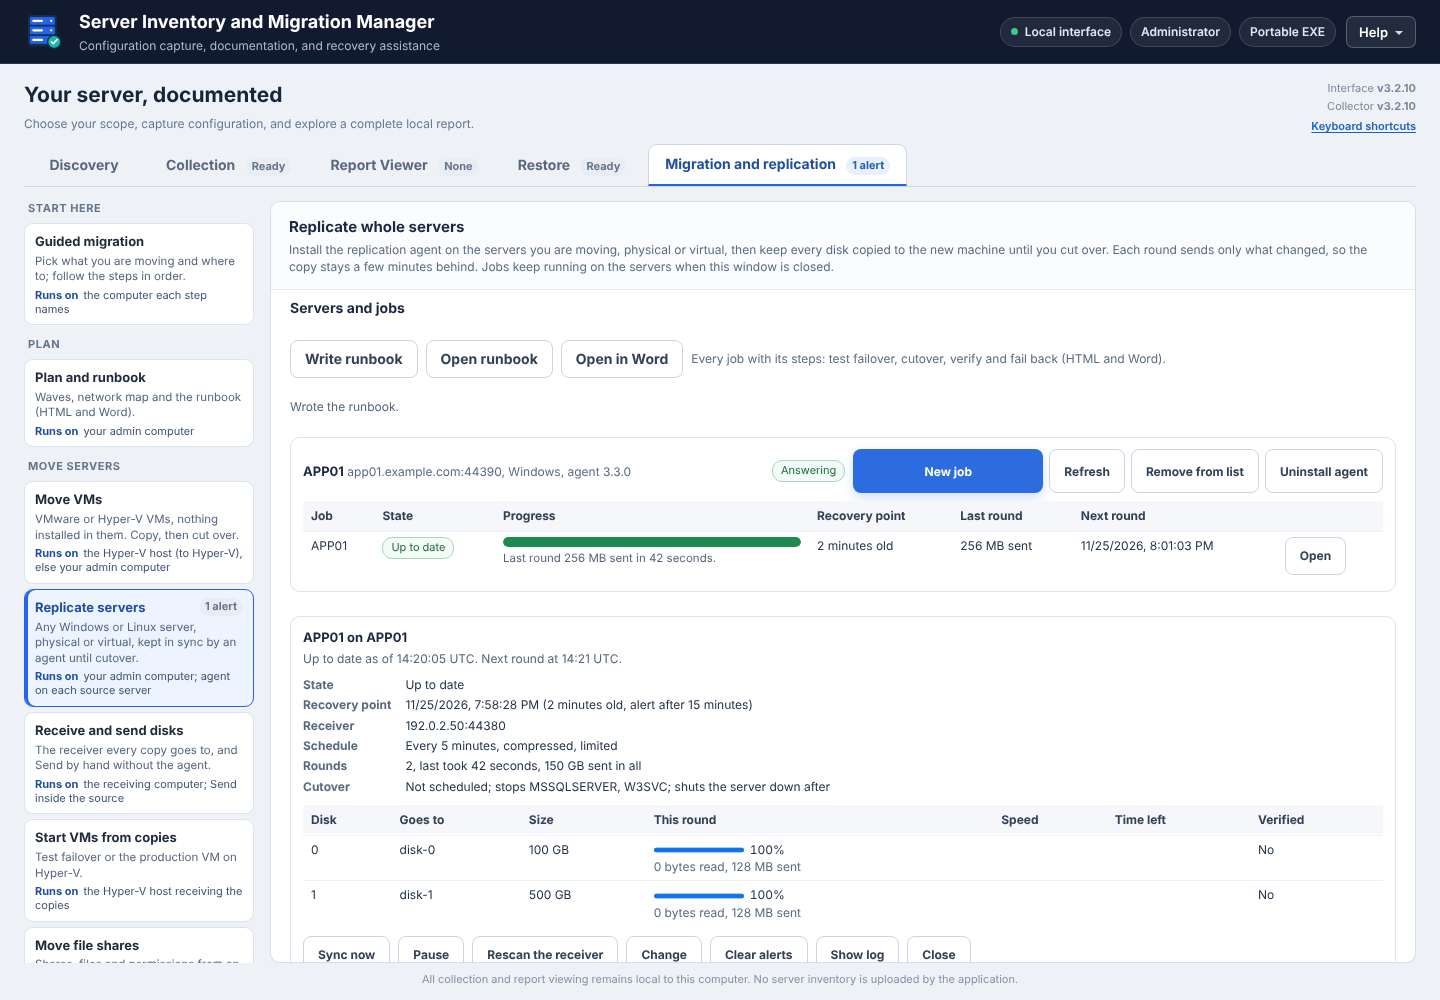
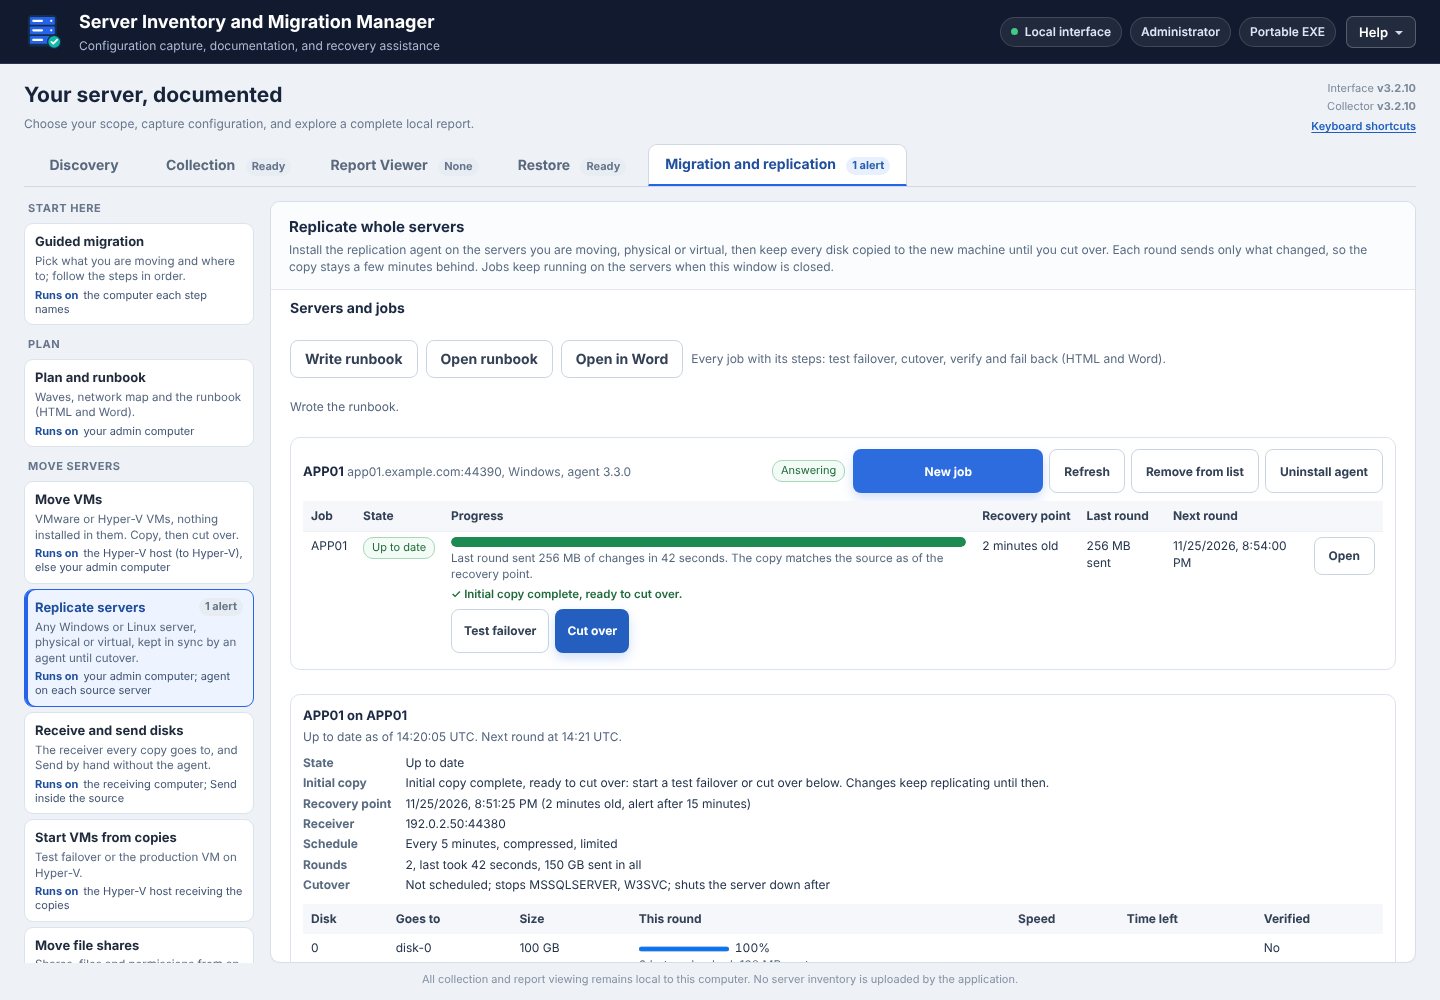
Put Test failover and Cut over under the initial copy line; recapture replication screenshots
Claude-Session: https://claude.ai/code/session_01AkZzWGj2e6f3ND8PTMq4FS

diff --git a/src/app/index.html b/src/app/index.html
@@ -533,7 +533,7 @@ kbd{display:inline-block;min-width:20px;padding:1px 6px;border:1px solid #c9d2df
 .vm-flow{display:flex;flex-wrap:wrap;align-items:center;gap:6px 8px;margin-top:8px;font-size:12px;color:#334156}
 .vm-flow-box{padding:5px 10px;border:1px solid #d6e0ee;border-radius:7px;background:#fff}.vm-flow-box.here{border-color:#2563eb;box-shadow:0 0 0 1px #2563eb}.vm-flow-box b{color:#1b2942}
 .rp-body .vm-field input,.rp-body .vm-field select,.rp-body .vm-field textarea{max-width:520px;box-sizing:border-box;border:1px solid #bcc9d9;border-radius:7px;padding:5px 9px;font:inherit;font-size:13px;min-height:32px;background:#fff;color:#1b2942}.rp-body .vm-field textarea{resize:vertical}
-.rp-body{display:flex;flex-direction:column;gap:12px;overflow-y:auto;overflow-x:hidden;min-height:0;flex:1 1 auto}.rp-summary{display:flex;flex-wrap:wrap;gap:8px}.rp-stat{min-width:86px;padding:7px 10px;border:1px solid #dbe3ed;border-radius:9px;background:#fbfcfe}.rp-stat strong{display:block;font-size:17px;color:#1b2942}.rp-stat span{font-size:11px;color:#52647c}.rp-stat.good{border-color:#a7d8b8;background:#f2fbf5}.rp-stat.warning{border-color:#f0cf8a;background:#fff9ea}.rp-stat.danger{border-color:#f1b3ad;background:#fff4f3}.rp-stat{font:inherit;text-align:left;cursor:pointer;transition:border-color .15s,box-shadow .15s}.rp-stat:hover{border-color:#9db8e6;box-shadow:0 1px 4px rgba(31,95,191,.14)}.rp-stat:focus-visible{outline:2px solid #2d6fd6;outline-offset:2px}.rp-stat[aria-pressed="true"]{border-color:#2563eb;box-shadow:inset 0 0 0 1px #2563eb;background:#f7faff}.rp-filter-bar{display:flex;flex-wrap:wrap;align-items:center;gap:6px 10px;margin:4px 0 8px;padding:6px 10px;border:1px solid #c9d6ea;border-radius:8px;background:#f5f8fd;font-size:12.5px}.rp-progress{min-width:190px}.rp-bar{position:relative;height:10px;border-radius:5px;background:#e6ebf2;overflow:hidden}.rp-bar-fill{display:block;height:100%;border-radius:5px;background:#7b8aa0;transition:width .4s}.rp-bar.active .rp-bar-fill{background:#2563eb}.rp-bar.good .rp-bar-fill{background:#1d8a52}.rp-bar.warning .rp-bar-fill{background:#d08a14}.rp-bar.danger .rp-bar-fill{background:#c2413a}.rp-progress-text{margin-top:3px;font-size:11.5px;color:#52647c}.fv-why{color:#7a5410;margin-top:4px}.vm-act.warning{color:#7a5410}.vm-act.danger{color:#9b2c22;font-weight:600}.vm-act.good{color:#1f6a3a}.fv-source{color:#1f6a3a}.fv-checklist{margin:6px 0 8px 18px;padding:0;font-size:12.5px}.fv-checklist li{margin:2px 0}.fv-next{margin-top:10px;padding:9px 12px;border:1px solid #a7d8b8;border-radius:8px;background:#f2fbf5}.fv-next p{margin:4px 0 8px}.fv-why:empty{display:none}.fv-warn{color:#9b2c22;font-weight:600}.fv-refresh{margin-left:auto}.rp-milestone{margin-top:3px;font-size:11.5px;font-weight:600;color:#1f6a3a}.rp-milestone::before{content:"\2713  "}.rp-row-actions{white-space:nowrap}.rp-row-actions button+button{margin-left:4px}.vm-transfers{margin-top:10px}.xfer-head{display:flex;flex-wrap:wrap;align-items:baseline;gap:4px 10px;margin-bottom:4px}.xfer-table progress,.rp-disk-table progress{width:90px;height:10px;vertical-align:middle}.xfer-pct{margin-left:6px;font-variant-numeric:tabular-nums}.xfer-error{color:#a33b3b}.xfer-table td{vertical-align:top}.xfer-nowrap{white-space:nowrap}.xfer-card{border:1px solid #dbe3ed;border-radius:8px;padding:7px 9px;margin-top:6px;background:#fbfcfe}.xfer-card-top{display:flex;justify-content:space-between;gap:8px;align-items:center}.xfer-card progress{width:100%;height:10px;margin:5px 0 2px}.xfer-card .vm-note{overflow-wrap:anywhere}.rp-advice td{font-size:12px;color:#7a5410;background:#fffaf0;border-top:0}
+.rp-body{display:flex;flex-direction:column;gap:12px;overflow-y:auto;overflow-x:hidden;min-height:0;flex:1 1 auto}.rp-summary{display:flex;flex-wrap:wrap;gap:8px}.rp-stat{min-width:86px;padding:7px 10px;border:1px solid #dbe3ed;border-radius:9px;background:#fbfcfe}.rp-stat strong{display:block;font-size:17px;color:#1b2942}.rp-stat span{font-size:11px;color:#52647c}.rp-stat.good{border-color:#a7d8b8;background:#f2fbf5}.rp-stat.warning{border-color:#f0cf8a;background:#fff9ea}.rp-stat.danger{border-color:#f1b3ad;background:#fff4f3}.rp-stat{font:inherit;text-align:left;cursor:pointer;transition:border-color .15s,box-shadow .15s}.rp-stat:hover{border-color:#9db8e6;box-shadow:0 1px 4px rgba(31,95,191,.14)}.rp-stat:focus-visible{outline:2px solid #2d6fd6;outline-offset:2px}.rp-stat[aria-pressed="true"]{border-color:#2563eb;box-shadow:inset 0 0 0 1px #2563eb;background:#f7faff}.rp-filter-bar{display:flex;flex-wrap:wrap;align-items:center;gap:6px 10px;margin:4px 0 8px;padding:6px 10px;border:1px solid #c9d6ea;border-radius:8px;background:#f5f8fd;font-size:12.5px}.rp-progress{min-width:190px}.rp-bar{position:relative;height:10px;border-radius:5px;background:#e6ebf2;overflow:hidden}.rp-bar-fill{display:block;height:100%;border-radius:5px;background:#7b8aa0;transition:width .4s}.rp-bar.active .rp-bar-fill{background:#2563eb}.rp-bar.good .rp-bar-fill{background:#1d8a52}.rp-bar.warning .rp-bar-fill{background:#d08a14}.rp-bar.danger .rp-bar-fill{background:#c2413a}.rp-progress-text{margin-top:3px;font-size:11.5px;color:#52647c}.fv-why{color:#7a5410;margin-top:4px}.vm-act.warning{color:#7a5410}.vm-act.danger{color:#9b2c22;font-weight:600}.vm-act.good{color:#1f6a3a}.fv-source{color:#1f6a3a}.fv-checklist{margin:6px 0 8px 18px;padding:0;font-size:12.5px}.fv-checklist li{margin:2px 0}.fv-next{margin-top:10px;padding:9px 12px;border:1px solid #a7d8b8;border-radius:8px;background:#f2fbf5}.fv-next p{margin:4px 0 8px}.fv-why:empty{display:none}.fv-warn{color:#9b2c22;font-weight:600}.fv-refresh{margin-left:auto}.rp-milestone{margin-top:3px;font-size:11.5px;font-weight:600;color:#1f6a3a}.rp-milestone::before{content:"\2713  "}.rp-row-actions{display:flex;flex-wrap:wrap;gap:6px;margin-top:6px}.rp-row-actions button{min-width:0;width:auto;min-height:28px;padding:3px 12px;font-size:12px}.rp-jobs td:first-child,.rp-jobs td:last-child{white-space:nowrap}.vm-transfers{margin-top:10px}.xfer-head{display:flex;flex-wrap:wrap;align-items:baseline;gap:4px 10px;margin-bottom:4px}.xfer-table progress,.rp-disk-table progress{width:90px;height:10px;vertical-align:middle}.xfer-pct{margin-left:6px;font-variant-numeric:tabular-nums}.xfer-error{color:#a33b3b}.xfer-table td{vertical-align:top}.xfer-nowrap{white-space:nowrap}.xfer-card{border:1px solid #dbe3ed;border-radius:8px;padding:7px 9px;margin-top:6px;background:#fbfcfe}.xfer-card-top{display:flex;justify-content:space-between;gap:8px;align-items:center}.xfer-card progress{width:100%;height:10px;margin:5px 0 2px}.xfer-card .vm-note{overflow-wrap:anywhere}.rp-advice td{font-size:12px;color:#7a5410;background:#fffaf0;border-top:0}
 .rp-grid{display:grid;grid-template-columns:minmax(0,1.2fr) minmax(0,1fr);gap:12px}.rp-two{display:grid;grid-template-columns:minmax(0,1fr) minmax(0,1fr);gap:0 12px}.rp-heading{margin:4px 0 0;font-size:14px;color:#1b2942}.rp-subhead{margin-top:12px;font-weight:700;color:#23334b}.tt-end-name{width:12em;max-width:100%;margin:0 6px 0 0}
 .fv-end-name{width:12em;max-width:100%;margin:4px 8px 0 0}#vmFailover{margin-top:12px}
 .rp-log{max-height:180px;overflow:auto;margin:8px 0 0;padding:8px;border:1px solid #dbe3ed;border-radius:8px;background:#f7f9fc;font:11px/1.45 Consolas,monospace;color:#23334b;white-space:pre-wrap;overflow-wrap:anywhere}
@@ -4659,9 +4659,8 @@ kbd{display:inline-block;min-width:20px;padding:1px 6px;border:1px solid #c9d2df
           tr.appendChild(el('td','',st.recoveryPoint&&!/^0001-/.test(st.recoveryPoint)?rpAge(j.rpoSeconds)+' old':'None yet'));
           tr.appendChild(el('td','',st.rounds?formatBytesShort(st.lastSent)+' sent':'None yet'));
           tr.appendChild(el('td','',stale?'When the agent answers':st.state==='cut-over'?'None':(j.spec.cutoverAt?'Cutover '+rpWhen(j.spec.cutoverAt):(st.state==='syncing'?'Now':(rpWhen(st.nextRun)||'Soon')))));
-          var open=el('td','rp-row-actions');open.appendChild(rpButton('Open','data-rp-open',a.id+'|'+j.spec.id));
-          if(!stale&&rpSeeded(j)&&st.state!=='cut-over'&&st.state!=='cutting-over'){open.appendChild(rpButton('Test failover','data-rp-test',a.id+'|'+j.spec.id));open.appendChild(rpButton('Cut over','data-rp-goto-cutover',a.id+'|'+j.spec.id,true));}
-          tr.appendChild(open);
+          var open=el('td');open.appendChild(rpButton('Open','data-rp-open',a.id+'|'+j.spec.id));tr.appendChild(open);
+          if(!stale&&rpSeeded(j)&&st.state!=='cut-over'&&st.state!=='cutting-over'){var acts=el('div','rp-row-actions');acts.appendChild(rpButton('Test failover','data-rp-test',a.id+'|'+j.spec.id));acts.appendChild(rpButton('Cut over','data-rp-goto-cutover',a.id+'|'+j.spec.id,true));tr.children[2].appendChild(acts);}
           tbody.appendChild(tr);
           var advice=rpJobAdvice(a,j);if(advice){var ar=el('tr','rp-advice'),ac=el('td','',advice);ac.colSpan=7;ar.setAttribute('data-rp-advice',j.spec.id);ar.appendChild(ac);tbody.appendChild(ar);}
         });
